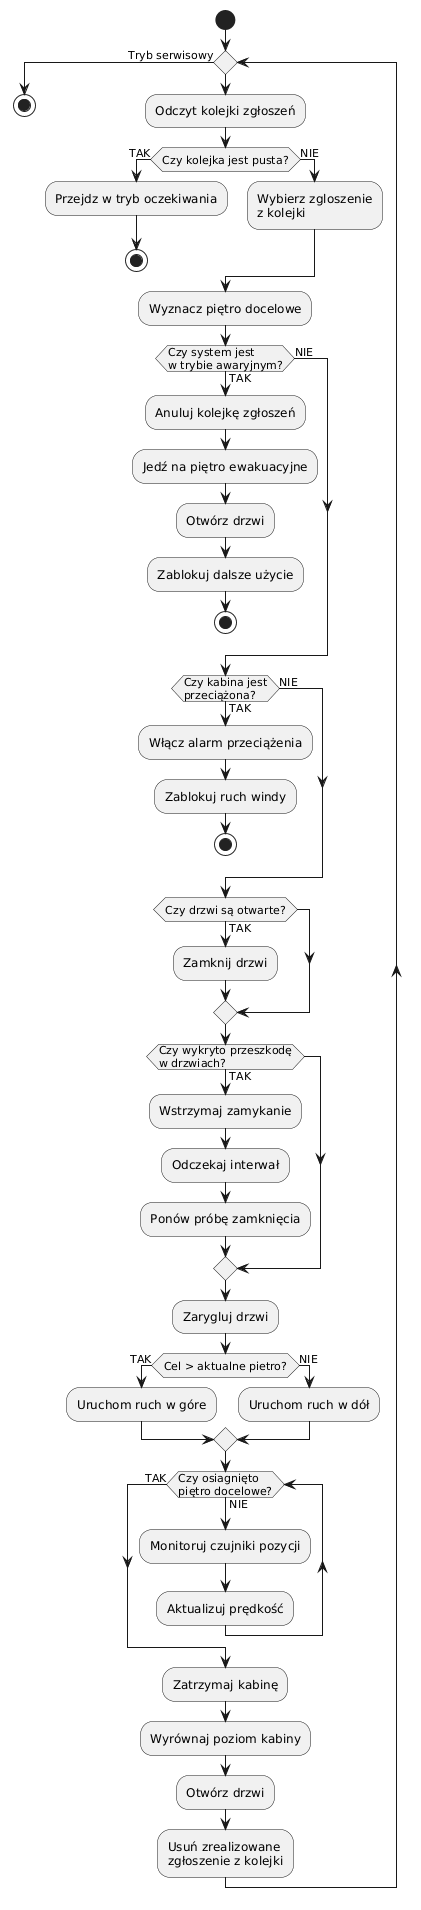
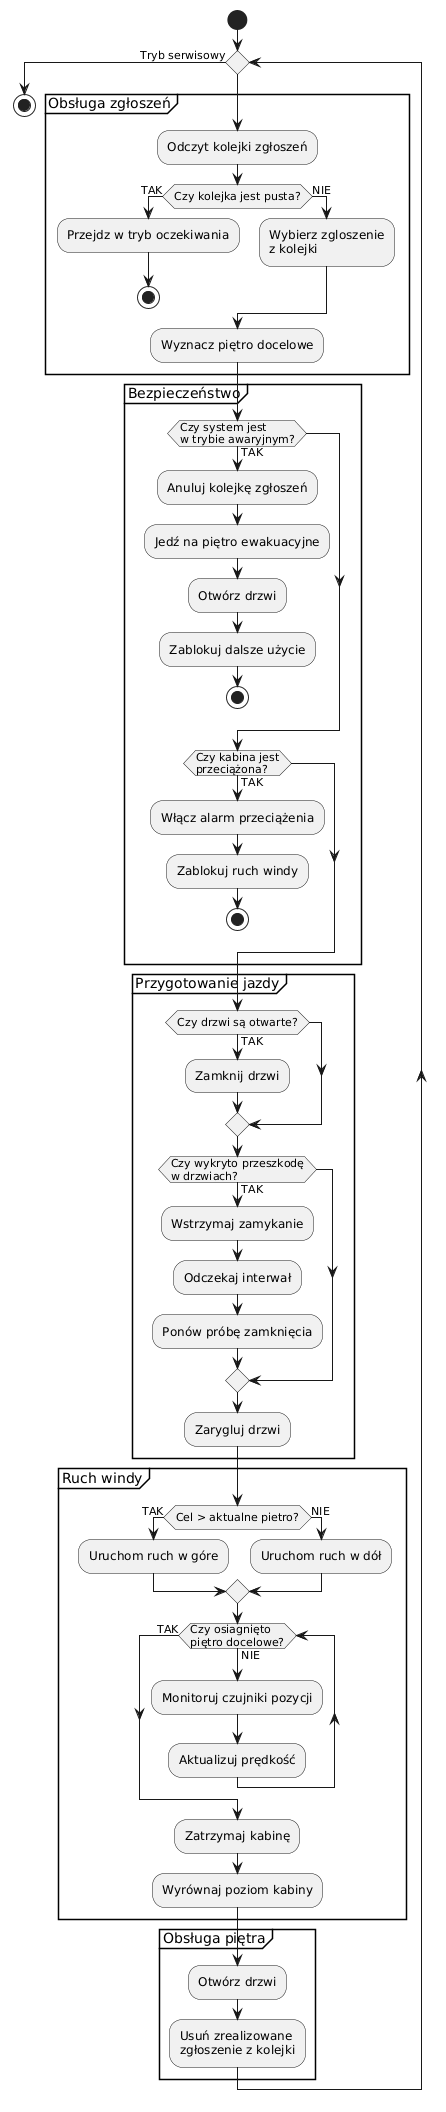
lista 04 pt 3?

Changed region(s): [[0.0309, 0.0, 0.9572, 0.9885], [0.7411, 0.7723, 0.772, 0.8649]]

diff --git a/Projekt.tex b/Projekt.tex
@@ -286,7 +286,7 @@ System jest używany przez różne grupy użytkowników:
 
 \textbf{Węzeł Piętrowy} obsługuje przyciski i wyświetlacz na każdym piętrze. Komunikuje się z Jednostką Główną przez magistralę CAN, podobnie jak Kabina. CAN został wybrany ze względu na odporność na zakłócenia elektromagnetyczne panujące w szybie windy.
 
-\textbf{Systemy Zewnętrzne} -- PPOŻ i panel serwisowy -- komunikują się przez moduł zewnętrzny oddzielony od magistrali CAN, co zapewnia niezależność systemu bezpieczeństwa.
+\textbf{Systemy Zewnętrzne} - PPOŻ i panel serwisowy - komunikują się przez moduł zewnętrzny oddzielony od magistrali CAN, co zapewnia niezależność systemu bezpieczeństwa.
 
 \section{Dane w systemie}
 
@@ -298,10 +298,10 @@ System jest używany przez różne grupy użytkowników:
 \midrule
 Wielkość fizyczna & Położenie liniowe \\
 Jednostka & Milimetry [mm] \\
-Zakres & 0 -- maksymalna wysokość szybu \\
+Zakres & 0 - maksymalna wysokość szybu \\
 Rozdzielczość przechowywana & 1 mm \\
 Rozdzielczość wyświetlana & Numer piętra (liczba całkowita) \\
-Format wymiany & \texttt{uint32} -- surowa wartość z enkodera \\
+Format wymiany & \texttt{uint32} - surowa wartość z enkodera \\
 Źródło & Czujnik pozycji \\
 Odbiorcy & Master, wyświetlacz kabiny, wyświetlacz piętrowy \\
 \bottomrule
@@ -315,10 +315,10 @@ Odbiorcy & Master, wyświetlacz kabiny, wyświetlacz piętrowy \\
 \midrule
 Wielkość fizyczna & Masa \\
 Jednostka & Kilogramy [kg] \\
-Zakres & 0 -- 150\% udźwigu nominalnego \\
+Zakres & 0 - 150\% udźwigu nominalnego \\
 Rozdzielczość przechowywana & 0.1 kg \\
 Rozdzielczość wyświetlana & Niewyświetlana użytkownikowi \\
-Format wymiany & \texttt{float32} -- odczyt ADC przeliczony na kg \\
+Format wymiany & \texttt{float32} - odczyt ADC przeliczony na kg \\
 Źródło & Czujnik wagi \\
 Odbiorcy & Sterownik kabiny, Master \\
 \bottomrule
@@ -330,14 +330,14 @@ Odbiorcy & Sterownik kabiny, Master \\
 \toprule
 \textbf{Atrybut} & \textbf{Wartość} \\
 \midrule
-Wielkość fizyczna & Brak -- dane logiczne \\
+Wielkość fizyczna & Brak - dane logiczne \\
 Jednostka & Brak \\
-Zakres & Piętro: 0 -- N, kierunek: \{góra, dół\} \\
+Zakres & Piętro: 0 - N, kierunek: \{góra, dół\} \\
 Rozdzielczość przechowywana & 1 piętro \\
 Rozdzielczość wyświetlana & Podświetlenie przycisku wybranego piętra \\
 Format wymiany & \texttt{\{floor: uint8, direction: enum, source: enum\}} \\
 Źródło & Panel przycisków kabiny, przyciski piętrowe \\
-Odbiorcy & Master -- kolejka zadań \\
+Odbiorcy & Master - kolejka zadań \\
 \bottomrule
 \end{tabularx}
 
@@ -347,12 +347,12 @@ Odbiorcy & Master -- kolejka zadań \\
 \toprule
 \textbf{Atrybut} & \textbf{Wartość} \\
 \midrule
-Wielkość fizyczna & Brak -- dane logiczne \\
+Wielkość fizyczna & Brak - dane logiczne \\
 Jednostka & Brak \\
 Zakres & \{otwarte, zamknięte, w ruchu, zablokowane\} \\
 Rozdzielczość przechowywana & Enum 2 bity \\
 Rozdzielczość wyświetlana & Niewyświetlany bezpośrednio \\
-Format wymiany & \texttt{uint8} -- enum stanu \\
+Format wymiany & \texttt{uint8} - enum stanu \\
 Źródło & Fotokomórka drzwi, siłownik drzwi \\
 Odbiorcy & Sterownik kabiny, Master \\
 \bottomrule
@@ -366,7 +366,7 @@ Odbiorcy & Sterownik kabiny, Master \\
 \midrule
 Wielkość fizyczna & Prędkość liniowa \\
 Jednostka & Milimetry na sekundę [mm/s] \\
-Zakres & 0 -- 2500 mm/s \\
+Zakres & 0 - 2500 mm/s \\
 Rozdzielczość przechowywana & 1 mm/s \\
 Rozdzielczość wyświetlana & Niewyświetlana użytkownikowi \\
 Format wymiany & \texttt{uint16} \\
@@ -381,12 +381,12 @@ Odbiorcy & Sterownik kabiny, falownik silnika \\
 \toprule
 \textbf{Atrybut} & \textbf{Wartość} \\
 \midrule
-Wielkość fizyczna & Brak -- dane logiczne \\
+Wielkość fizyczna & Brak - dane logiczne \\
 Jednostka & Brak \\
 Zakres & \{normalny, serwisowy, awaryjny PPOŻ, przeciążenie\} \\
 Rozdzielczość przechowywana & Enum 3 bity \\
 Rozdzielczość wyświetlana & Komunikat na wyświetlaczu i głośniku \\
-Format wymiany & \texttt{uint8} -- enum trybu \\
+Format wymiany & \texttt{uint8} - enum trybu \\
 Źródło & Master, System PPOŻ, Panel serwisowy \\
 Odbiorcy & Wszystkie komponenty systemu \\
 \bottomrule
@@ -398,9 +398,9 @@ Odbiorcy & Wszystkie komponenty systemu \\
 \toprule
 \textbf{Atrybut} & \textbf{Wartość} \\
 \midrule
-Wielkość fizyczna & Brak -- nastawy serwisowe \\
+Wielkość fizyczna & Brak - nastawy serwisowe \\
 Jednostka & Zależna od parametru \\
-Zakres & Czas otwarcia drzwi: 1--10 s, prędkość nominalna: 100--2500 mm/s, piętro bazowe: 0--N \\
+Zakres & Czas otwarcia drzwi: 1-10 s, prędkość nominalna: 100-2500 mm/s, piętro bazowe: 0-N \\
 Rozdzielczość przechowywana & Zależna od parametru \\
 Rozdzielczość wyświetlana & Wartość liczbowa na panelu serwisowym \\
 Format wymiany & \texttt{\{param\_id: uint8, value: uint32\}} \\
@@ -415,9 +415,9 @@ Odbiorcy & Pamięć EEPROM, Master \\
 \toprule
 \textbf{Atrybut} & \textbf{Wartość} \\
 \midrule
-Wielkość fizyczna & Brak -- dane logiczne \\
+Wielkość fizyczna & Brak - dane logiczne \\
 Jednostka & Brak \\
-Zakres & ID karty: 0 -- $2^{32}$, poziom dostępu: \{pasażer, serwis, służby\} \\
+Zakres & ID karty: 0 - $2^{32}$, poziom dostępu: \{pasażer, serwis, służby\} \\
 Rozdzielczość przechowywana & 32-bitowe ID karty \\
 Rozdzielczość wyświetlana & Niewyświetlane \\
 Format wymiany & \texttt{\{card\_id: uint32, access\_level: uint8\}} \\
@@ -430,13 +430,84 @@ Odbiorcy & Master, pamięć konfiguracji \\
 
 \textbf{Żądania jazdy} trafiają do Mastera, który porównuje je z \textbf{pozycją kabiny} i generuje polecenia ruchu.
 
-\textbf{Waga kabiny} nadpisuje żądania jazdy -- przekroczenie progu wymusza tryb przeciążenia i blokuje ruch.
+\textbf{Waga kabiny} nadpisuje żądania jazdy - przekroczenie progu wymusza tryb przeciążenia i blokuje ruch.
 
-\textbf{Stan drzwi} blokuje zmianę \textbf{prędkości kabiny} -- jazda możliwa tylko przy drzwiach zamkniętych i zaryglowanych.
+\textbf{Stan drzwi} blokuje zmianę \textbf{prędkości kabiny} - jazda możliwa tylko przy drzwiach zamkniętych i zaryglowanych.
 
-\textbf{Tryb pracy} jest nadrzędny dla całego systemu -- tryb awaryjny PPOŻ anuluje wszystkie żądania i wymusza zjazd na piętro ewakuacyjne.
+\textbf{Tryb pracy} jest nadrzędny dla całego systemu - tryb awaryjny PPOŻ anuluje wszystkie żądania i wymusza zjazd na piętro ewakuacyjne.
 
 \textbf{Uprawnienia dostępu} filtrują żądania jazdy na piętra z ograniczonym dostępem.
 
 \textbf{Parametry konfiguracyjne} z EEPROM definiują wartości graniczne dla prędkości, czasu otwarcia drzwi i piętra bazowego.
+
+\pagebreak
+\section{Opis działania systemu}
+\subsection{Diagram stanów}
+    \begin{center}
+        \includegraphics*[height=\dimexpr\textheight-2cm\relax,keepaspectratio]{04 Opis działania systemu/States.png}
+    \end{center}
+\pagebreak
+    \begin{center}
+        \includegraphics*[height=\dimexpr\textheight-1cm\relax,keepaspectratio]{04 Opis działania systemu/StateReady.png}
+    \end{center}
+\begin{landscape}
+\pagebreak
+\subsection{Diagram interakcji}
+    \begin{center}
+        \includegraphics*[width=\dimexpr\linewidth-6cm\relax,keepaspectratio]{04 Opis działania systemu/interaction.png}
+    \end{center}
+\end{landscape}
+\pagebreak
+\subsection{Diagram przepływu}
+    \begin{center}
+        \includegraphics*[height=\dimexpr\textheight-2cm\relax,keepaspectratio]{04 Opis działania systemu/flowchart.png}
+    \end{center}
+\pagebreak
+\subsection{Diagram decyzyjny}
+    \begin{center}
+        \includegraphics*[height=\dimexpr\textheight-2cm\relax,keepaspectratio]{04 Opis działania systemu/decision.png}
+    \end{center}
+\pagebreak
+\subsection{Przeliczenie ADC na masę}
+Czujnik wagi oparty jest na tensometrze podłączonym do wejścia ADC mikrokontrolera.
+Surowa wartość odczytu $r$ (liczba całkowita 0-4095 dla 12-bitowego ADC) przeliczana jest na masę w kilogramach według wzoru:
+\begin{equation}
+    m = \frac{r - r_0}{r_{max} - r_0} \cdot m_{max}
+\end{equation}
+gdzie:
+\begin{itemize}
+    \item $r_0$ - wartość ADC dla pustej kabiny (kalibracja przy uruchomieniu),
+    \item $r_{max}$ - wartość ADC dla maksymalnego udźwigu $m_{max}$,
+    \item $m_{max}$ - maksymalny udźwig kabiny w kg (parametr konfiguracyjny).
+\end{itemize}
+Wynik $m$ przechowywany jest jako \texttt{float32} z rozdzielczością 0.1kg. Próg przeciążenia ustawiony jest na $1.1 \cdot m_{max}$, co daje 10\% margines bezpieczenstwa.
+\subsection{Sekwencja sygnałów przy zamykaniu drzwi}
+Poniżej przedstawiono wyliczeniową sekwencję sygnałów generowanych przez sterownik kabiny podczas zamykania drzwi przed jazdą:
+\begin{enumerate}
+    \item Sterownik wystawia sygnał \texttt{GPIO: DOOR\_CLOSE = 1} - siłownik drzwi rozpoczyna zamykanie.
+    \item Co 20ms sterownik odpytuje fotokomórkę: \texttt{GPIO: OBSTACLE = ?}
+    \begin{itemize}
+        \item Jeśli \texttt{OBSTACLE = 1} - sterownik wystawia \texttt{GPIO: DOOR\_CLOSE = 0}, odczekuje 500ms i ponawia próbę od kroku 1.
+        \item Jeśli \texttt{OBSTACLE = 0} - kontynuuje zamykanie.
+    \end{itemize}
+    \item Po wykryciu \texttt{GPIO: DOOR\_CLOSED = 1} (wyłącznik krańcowy) sterownik wystawia \texttt{GPIO: DOOR\_LOCK = 1} - elektrozamek rygluje drzwi.
+    \item Sterownik odczekuje 50 ms i sprawdza potwierdzenie ryglowania: \break\texttt{GPIO: DOOR\_LOCKED = ?}
+    \begin{itemize}
+        \item Jeśli \texttt{DOOR\_LOCKED = 1} - sterownik wysyła do Mastera przez CAN komunikat \break\texttt{\{status: READY\}}.
+        \item Jeśli \texttt{DOOR\_LOCKED = 0} - sterownik ponawia ryglowanie od kroku 3, maksymalnie 3 razy, po czym zgłasza błąd do Mastera.
+    \end{itemize}
+\end{enumerate}
+\subsection{Sekwencja sygnałów przy przeciażeniu}
+Wykrycie masy powyżej progu $1.1 \cdot m_{max}$ wyzwala następującą sekwencję:
+\begin{enumerate}
+    \item Sterownik kabiny blokuje sygnał ruchu: \texttt{PWM: MOTOR = 0}.
+    \item Sterownik wystawia \texttt{GPIO: DOOR\_OPEN = 1} - drzwi pozostają otwarte.
+    \item Co 1s następuje wyświetlenie na ekranie kabiny komunikatu o przeciażeniu przez SPI oraz emitowany jest sygnał dźwiękowy przez I2S w postaci trzech krótkich tonów (100 ms dźwięk, 100 ms cisza, powtórzenie 3 razy).
+    \item Master jest informowany przez CAN komunikatem \texttt{\{status: OVERLOAD\}}.
+    \item Po każdym odczycie ADC sterownik sprawdza czy $m \leq m_{max}$:
+    \begin{itemize}
+        \item Jeśli TAK - sekwencja kończy się, wyświetlacz jest czyszczony, system wraca do stanu gotowości.
+        \item Jeśli NIE - sekwencja trwa.
+    \end{itemize}
+\end{enumerate}
 \end{document}